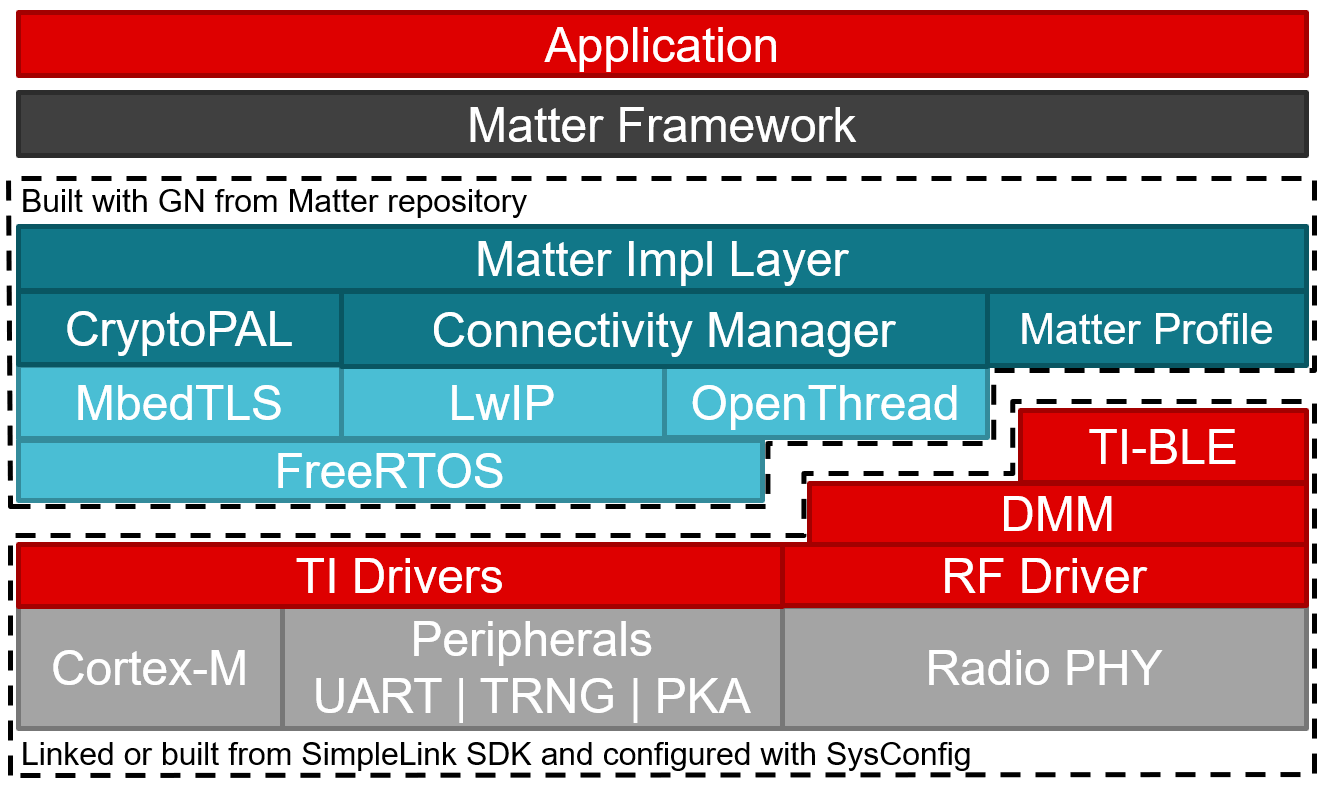
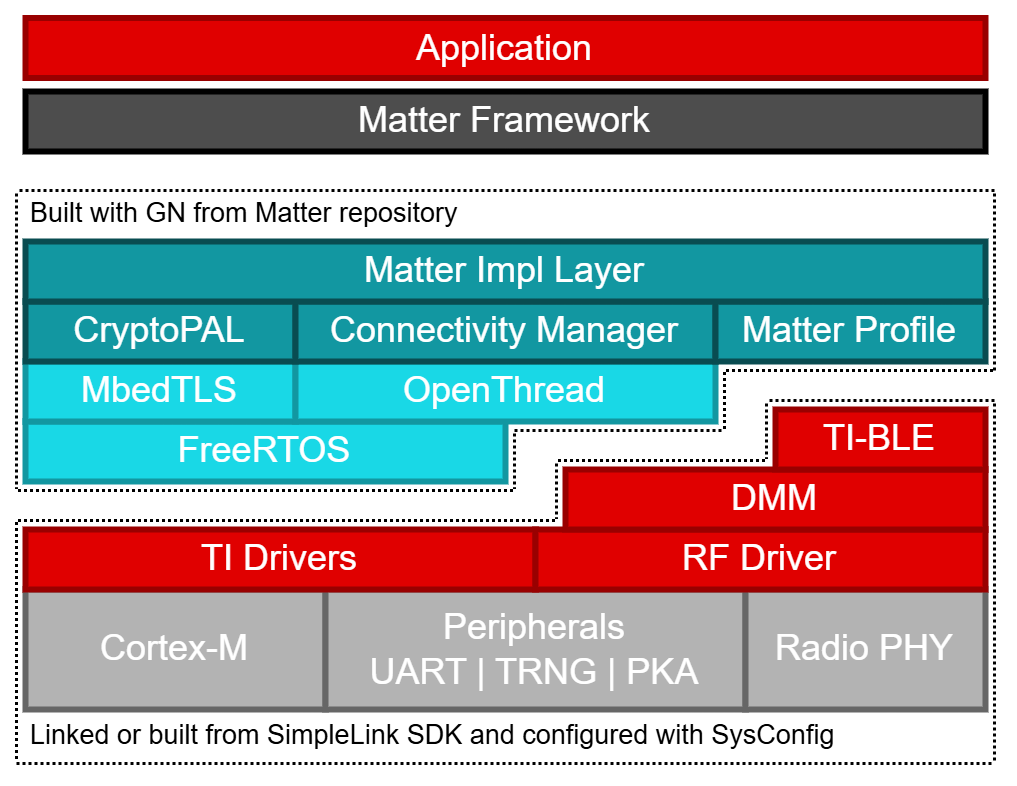
lwip removal for cc13x4_26x4

diff --git a/src/platform/ti/cc13xx_26xx/cc13x4_26x4/ThreadStackManagerImpl.h b/src/platform/ti/cc13xx_26xx/cc13x4_26x4/ThreadStackManagerImpl.h
@@ -26,7 +26,7 @@
 #pragma once
 
 #include <platform/FreeRTOS/GenericThreadStackManagerImpl_FreeRTOS.h>
-#include <platform/OpenThread/GenericThreadStackManagerImpl_OpenThread_LwIP.h>
+#include <platform/OpenThread/GenericThreadStackManagerImpl_OpenThread.h>
 
 #include <openthread/tasklet.h>
 #include <openthread/thread.h>
@@ -48,7 +48,7 @@ class ThreadStackManagerImpl;
  * Concrete implementation of the ThreadStackManager singleton object for CC13XX_26XX.
  */
 class ThreadStackManagerImpl final : public ThreadStackManager,
-                                     public Internal::GenericThreadStackManagerImpl_OpenThread_LwIP<ThreadStackManagerImpl>,
+                                     public Internal::GenericThreadStackManagerImpl_OpenThread<ThreadStackManagerImpl>,
                                      public Internal::GenericThreadStackManagerImpl_FreeRTOS<ThreadStackManagerImpl>
 {
     // Allow the ThreadStackManager interface class to delegate method calls to
@@ -58,8 +58,8 @@ class ThreadStackManagerImpl final : public ThreadStackManager,
     // Allow the generic implementation base classes to call helper methods on
     // this class.
 #ifndef DOXYGEN_SHOULD_SKIP_THIS
-    friend Internal::GenericThreadStackManagerImpl_OpenThread<ThreadStackManagerImpl>;
     friend Internal::GenericThreadStackManagerImpl_OpenThread_LwIP<ThreadStackManagerImpl>;
+    friend Internal::GenericThreadStackManagerImpl_OpenThread<ThreadStackManagerImpl>;
     friend Internal::GenericThreadStackManagerImpl_FreeRTOS<ThreadStackManagerImpl>;
 #endif
 

diff --git a/examples/light-switch-app/ti/cc13x4_26x4/src/AppTask.cpp b/examples/light-switch-app/ti/cc13x4_26x4/src/AppTask.cpp
@@ -57,6 +57,7 @@
 #include <app/TestEventTriggerDelegate.h>
 #include <app/clusters/general-diagnostics-server/GenericFaultTestEventTriggerHandler.h>
 #include <src/platform/ti/cc13xx_26xx/DefaultTestEventTriggerDelegate.h>
+#include <inet/EndPointStateOpenThread.h>
 
 #include <ti/drivers/apps/Button.h>
 #include <ti/drivers/apps/LED.h>
@@ -330,6 +331,12 @@ int AppTask::Init()
     initParams.testEventTriggerDelegate = &sTestEventTriggerDelegate;
     (void) initParams.InitializeStaticResourcesBeforeServerInit();
     initParams.dataModelProvider = CodegenDataModelProviderInstance(initParams.persistentStorageDelegate);
+
+    chip::Inet::EndPointStateOpenThread::OpenThreadEndpointInitParam nativeParams;
+    nativeParams.lockCb                = [] { ThreadStackMgr().LockThreadStack(); };
+    nativeParams.unlockCb              = [] { ThreadStackMgr().UnlockThreadStack(); };
+    nativeParams.openThreadInstancePtr = chip::DeviceLayer::ThreadStackMgrImpl().OTInstance();
+    initParams.endpointNativeParams    = static_cast<void *>(&nativeParams);
 
     // Initialize info provider
     sExampleDeviceInfoProvider.SetStorageDelegate(initParams.persistentStorageDelegate);

diff --git a/examples/lock-app/ti/cc13x4_26x4/src/AppTask.cpp b/examples/lock-app/ti/cc13x4_26x4/src/AppTask.cpp
@@ -51,6 +51,7 @@
 #include <app/TestEventTriggerDelegate.h>
 #include <app/clusters/general-diagnostics-server/GenericFaultTestEventTriggerHandler.h>
 #include <src/platform/ti/cc13xx_26xx/DefaultTestEventTriggerDelegate.h>
+#include <inet/EndPointStateOpenThread.h>
 
 #include <ti/drivers/apps/Button.h>
 #include <ti/drivers/apps/LED.h>
@@ -314,6 +315,12 @@ int AppTask::Init()
     (void) initParams.InitializeStaticResourcesBeforeServerInit();
     initParams.dataModelProvider = CodegenDataModelProviderInstance(initParams.persistentStorageDelegate);
 
+    chip::Inet::EndPointStateOpenThread::OpenThreadEndpointInitParam nativeParams;
+    nativeParams.lockCb                = [] { ThreadStackMgr().LockThreadStack(); };
+    nativeParams.unlockCb              = [] { ThreadStackMgr().UnlockThreadStack(); };
+    nativeParams.openThreadInstancePtr = chip::DeviceLayer::ThreadStackMgrImpl().OTInstance();
+    initParams.endpointNativeParams    = static_cast<void *>(&nativeParams);
+    
     // Initialize info provider
     sExampleDeviceInfoProvider.SetStorageDelegate(initParams.persistentStorageDelegate);
     SetDeviceInfoProvider(&sExampleDeviceInfoProvider);

diff --git a/examples/pump-controller-app/ti/cc13x4_26x4/main/AppTask.cpp b/examples/pump-controller-app/ti/cc13x4_26x4/main/AppTask.cpp
@@ -41,6 +41,7 @@
 #include <data-model-providers/codegen/Instance.h>
 #include <lib/support/CHIPMem.h>
 #include <lib/support/CHIPPlatformMemory.h>
+#include <inet/EndPointStateOpenThread.h>
 #include <platform/CHIPDeviceLayer.h>
 
 #include <setup_payload/OnboardingCodesUtil.h>
@@ -307,6 +308,13 @@ int AppTask::Init()
 
     (void) initParams.InitializeStaticResourcesBeforeServerInit();
     initParams.dataModelProvider = CodegenDataModelProviderInstance(initParams.persistentStorageDelegate);
+
+    chip::Inet::EndPointStateOpenThread::OpenThreadEndpointInitParam nativeParams;
+    nativeParams.lockCb                = [] { ThreadStackMgr().LockThreadStack(); };
+    nativeParams.unlockCb              = [] { ThreadStackMgr().UnlockThreadStack(); };
+    nativeParams.openThreadInstancePtr = chip::DeviceLayer::ThreadStackMgrImpl().OTInstance();
+    initParams.endpointNativeParams    = static_cast<void *>(&nativeParams);
+    
     chip::Server::GetInstance().Init(initParams);
 
     ret = PlatformMgr().StartEventLoopTask();

diff --git a/examples/pump-app/ti/cc13x4_26x4/main/AppTask.cpp b/examples/pump-app/ti/cc13x4_26x4/main/AppTask.cpp
@@ -46,6 +46,7 @@
 #include <app/clusters/identify-server/identify-server.h>
 #include <lib/support/CHIPMem.h>
 #include <lib/support/CHIPPlatformMemory.h>
+#include <inet/EndPointStateOpenThread.h>
 #include <platform/CHIPDeviceLayer.h>
 
 #include <setup_payload/OnboardingCodesUtil.h>
@@ -315,6 +316,12 @@ int AppTask::Init()
 
     (void) initParams.InitializeStaticResourcesBeforeServerInit();
     initParams.dataModelProvider = CodegenDataModelProviderInstance(initParams.persistentStorageDelegate);
+
+    chip::Inet::EndPointStateOpenThread::OpenThreadEndpointInitParam nativeParams;
+    nativeParams.lockCb                = [] { ThreadStackMgr().LockThreadStack(); };
+    nativeParams.unlockCb              = [] { ThreadStackMgr().UnlockThreadStack(); };
+    nativeParams.openThreadInstancePtr = chip::DeviceLayer::ThreadStackMgrImpl().OTInstance();
+    initParams.endpointNativeParams    = static_cast<void *>(&nativeParams);
 
     chip::Server::GetInstance().Init(initParams);
 

diff --git a/examples/lighting-app/ti/cc13x4_26x4/src/AppTask.cpp b/examples/lighting-app/ti/cc13x4_26x4/src/AppTask.cpp
@@ -39,6 +39,7 @@
 
 #include <lib/support/CHIPMem.h>
 #include <lib/support/CHIPPlatformMemory.h>
+#include <inet/EndPointStateOpenThread.h>
 
 #include <app-common/zap-generated/attributes/Accessors.h>
 
@@ -323,6 +324,12 @@ int AppTask::Init()
 
     (void) initParams.InitializeStaticResourcesBeforeServerInit();
     initParams.dataModelProvider = CodegenDataModelProviderInstance(initParams.persistentStorageDelegate);
+
+    chip::Inet::EndPointStateOpenThread::OpenThreadEndpointInitParam nativeParams;
+    nativeParams.lockCb                = [] { ThreadStackMgr().LockThreadStack(); };
+    nativeParams.unlockCb              = [] { ThreadStackMgr().UnlockThreadStack(); };
+    nativeParams.openThreadInstancePtr = chip::DeviceLayer::ThreadStackMgrImpl().OTInstance();
+    initParams.endpointNativeParams    = static_cast<void *>(&nativeParams);
 
     // Initialize info provider
     sExampleDeviceInfoProvider.SetStorageDelegate(initParams.persistentStorageDelegate);

diff --git a/src/platform/ti/cc13xx_26xx/ThreadStackManagerImpl.cpp b/src/platform/ti/cc13xx_26xx/ThreadStackManagerImpl.cpp
@@ -28,7 +28,7 @@
 #include <platform/internal/CHIPDeviceLayerInternal.h>
 
 #include <platform/FreeRTOS/GenericThreadStackManagerImpl_FreeRTOS.hpp>
-#include <platform/OpenThread/GenericThreadStackManagerImpl_OpenThread_LwIP.cpp>
+#include <platform/OpenThread/GenericThreadStackManagerImpl_OpenThread.hpp>
 
 #include <mbedtls/platform.h>
 #include <openthread/heap.h>
@@ -103,7 +103,7 @@ CHIP_ERROR ThreadStackManagerImpl::InitThreadStack(otInstance * otInst)
     // Initialize the generic implementation base classes.
     err = GenericThreadStackManagerImpl_FreeRTOS<ThreadStackManagerImpl>::DoInit();
     SuccessOrExit(err);
-    err = GenericThreadStackManagerImpl_OpenThread_LwIP<ThreadStackManagerImpl>::DoInit(otInst);
+    err = GenericThreadStackManagerImpl_OpenThread<ThreadStackManagerImpl>::DoInit(otInst);
     SuccessOrExit(err);
 
 exit:

diff --git a/src/platform/ti/cc13xx_26xx/PlatformManagerImpl.cpp b/src/platform/ti/cc13xx_26xx/PlatformManagerImpl.cpp
@@ -30,8 +30,6 @@
 #include <platform/internal/GenericPlatformManagerImpl_FreeRTOS.ipp>
 #include <platform/ti/cc13xx_26xx/DiagnosticDataProviderImpl.h>
 
-#include <lwip/tcpip.h>
-
 #include <openthread/platform/entropy.h>
 #include <ti/drivers/TRNG.h>
 #include <ti/drivers/cryptoutils/cryptokey/CryptoKeyPlaintext.h>
@@ -129,9 +127,6 @@ CHIP_ERROR PlatformManagerImpl::_InitChipStack(void)
            sizeof(DMMPolicy_StackRole) * DMMPOLICY_NUM_STACKS);
     dmmSchedulerParams.indexTable = DMMPolicy_ApplicationPolicyTable.indexTable;
     DMMSch_open(&dmmSchedulerParams);
-
-    // Initialize LwIP.
-    tcpip_init(NULL, NULL);
 
     app_random_init();
     err = chip::Crypto::add_entropy_source(app_entropy_source, NULL, 16);

diff --git a/src/platform/ti/cc13xx_26xx/cc13x4_26x4/SystemPlatformConfig.h b/src/platform/ti/cc13xx_26xx/cc13x4_26x4/SystemPlatformConfig.h
@@ -35,5 +35,6 @@ struct ChipDeviceEvent;
 // ==================== Platform Adaptations ====================
 #define CHIP_SYSTEM_CONFIG_PLATFORM_PROVIDES_TIME 1
 #define CHIP_SYSTEM_CONFIG_EVENT_OBJECT_TYPE const struct ::chip::DeviceLayer::ChipDeviceEvent *
+#define CHIP_SYSTEM_CONFIG_PACKETBUFFER_POOL_SIZE 8
 
 // ========== Platform-specific Configuration Overrides =========

diff --git a/src/platform/ti/cc13xx_26xx/ConnectivityManagerImpl.cpp b/src/platform/ti/cc13xx_26xx/ConnectivityManagerImpl.cpp
@@ -43,10 +43,6 @@
 #include <platform/ConnectivityManager.h>
 #include <platform/internal/BLEManager.h>
 
-#include <lwip/dns.h>
-#include <lwip/ip_addr.h>
-#include <lwip/nd6.h>
-#include <lwip/netif.h>
 
 using namespace ::chip;
 using namespace ::chip::DeviceLayer::Internal;

diff --git a/src/platform/ti/cc13xx_26xx/OTAImageProcessorImpl.h b/src/platform/ti/cc13xx_26xx/OTAImageProcessorImpl.h
@@ -24,6 +24,10 @@
 
 #include <ti/drivers/NVS.h>
 
+#ifndef PACK_STRUCT_STRUCT
+#define PACK_STRUCT_STRUCT __attribute__((packed))
+#endif
+
 namespace chip {
 
 class OTAImageProcessorImpl : public OTAImageProcessorInterface

diff --git a/docs/platforms/ti/ti_matter_overview.md b/docs/platforms/ti/ti_matter_overview.md
@@ -47,14 +47,6 @@ Instruments Dynamic Multi-protocol Manager.
 
 <hr>
 
-## LwIP stack
-
-The Lightweight IP stack interfaces with the OpenThread stack to offer standard
-IP connectivity protocols that OpenThread does not natively support. This offers
-a standard socket based interface to the Matter platform.
-
-<hr>
-
 ## MbedTLS
 
 The MbedTLS library is used by OpenThread and Matter for a wide variety of
@@ -69,12 +61,12 @@ configuration file.
 
 ## Matter Stack to TI Platform Interface
 
-Matter Stack interacts with LwIP, OpenThread, and the TI-BLE stack to achieve
+Matter interacts with OpenThread and the TI-BLE stack to achieve
 the protocol and application functionality. A Bluetooth LE profile is registered
 with the TI-BLE stack to enable provisioning and configuration. Once the device
 is provisioned Matter will configure the OpenThread interface to connect to an
 existing Thread network or to start its own network. From there the Matter IP
-messages are sent to the LwIP stack to be routed to the OpenThread stack for
+messages are sent to the Protocol Buffers to be routed to the OpenThread stack for
 transmission. Matter Impl (Implementation) layer acts as an interface between
 Matter stack and the TI platform components such as BLE stack, OpenThread,
 FreeRTOS. It also supports components such as connectivity manager that provides
